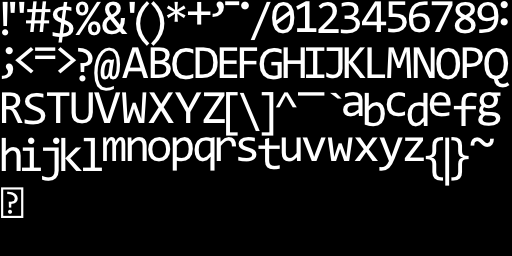
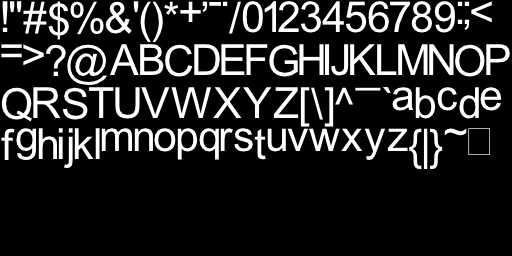
Added ability to specify font file and font size by calling mv_init manually

Changed region(s): [[0.0, 0.0, 1.0, 0.7188], [0.0, 0.7188, 0.0625, 0.875], [0.7188, 0.6562, 0.75, 0.6875]]

diff --git a/include/mv_easy_font.h b/include/mv_easy_font.h
@@ -19,6 +19,8 @@ GLuint mv_ef_load_shaders(const char *vs_path, const char *fs_path);
 typedef struct {
     int initialized; // to be able to initialize from the first call to mv_ef_draw()
 
+    char filename[256];
+
     // character info
     // filled up by stb_truetype.h
     stbtt_packedchar cdata[96]; 
@@ -52,7 +54,7 @@ typedef struct {
     GLuint vbo_instances; // vec4: (char_pos_x, char_pos_y, char_index, color_index)
 } mv_ef_font;
 
-void mv_ef_init();
+void mv_ef_init(char *filename, int font_size);
 void mv_ef_draw(char *str, char *col, float offset[2], float size, float res[2]);
 void mv_ef_string_dimensions(char *str, int *width, int *height, int font_size);
 void mv_ef_set_colors(float *colors);
@@ -177,9 +179,14 @@ void mv_ef_string_dimensions(char *str, int *width, int *height, int font_size)
 //
 // calculates and saves a bunch of useful variables and put them in the global font variable
 // 
-void mv_ef_init()
+void mv_ef_init(char *filename, int font_size)
 {
     font.initialized = 1;
+
+    if (filename)
+        strcpy(font.filename, filename);
+    else
+        strcpy(font.filename, "consola.ttf");
 
     // @TODO: Should probably hard code this eventually, as the shaders are finalized? 2 less files
     font.program = mv_ef_load_shaders( "vertex_shader_text.vs", "fragment_shader_text.fs" );
@@ -187,13 +194,13 @@ void mv_ef_init()
     // load .ttf into a bitmap using stb_truetype.h
     font.width = 512;
     font.height = 256;
-    font.font_size = 48.0;
+    font.font_size = font_size;
 
     // Read the data from file
     int ttf_size_max = 1e6;
     unsigned char *ttf_buffer = malloc(ttf_size_max); // sufficient size for consola.ttf
 
-    FILE *fp = fopen("consola.ttf", "rb");
+    FILE *fp = fopen(font.filename, "rb");
     fread(ttf_buffer, 1, ttf_size_max, fp);
     fclose(fp);
     
@@ -214,7 +221,7 @@ void mv_ef_init()
     stbtt_fontinfo info;
     stbtt_InitFont(&info, ttf_buffer, stbtt_GetFontOffsetForIndex(ttf_buffer,0));
 
-    float s = stbtt_ScaleForPixelHeight(&info, 48.0);
+    float s = stbtt_ScaleForPixelHeight(&info, font.font_size);
     int a, d, l;
     stbtt_GetFontVMetrics(&info, &a, &d, &l);
     printf("ascent %f  descent %f  linegap %f  yadvance %f\n", a*s, d*s, l*s, s*(a-d+l));
@@ -342,7 +349,7 @@ void mv_ef_draw(char *str, char *col, float offset[2], float size, float res[2])
     static float text_glyph_data[4*MAX_STRING_LEN] = {0};
 
     if (font.initialized == 0) {
-        mv_ef_init();
+        mv_ef_init(NULL, 48.0);
     }
 
     int len = strlen(str);
@@ -382,8 +389,7 @@ void mv_ef_draw(char *str, char *col, float offset[2], float size, float res[2])
 
 
     // Backup GL state
-    GLint last_program; 
-    GLint last_vertex_array; 
+    GLint last_program, last_vertex_array; 
     GLint last_texture0, last_texture1; 
     GLint last_blend_src, last_blend_dst; 
     GLint last_blend_equation_rgb, last_blend_equation_alpha; 
@@ -398,10 +404,10 @@ void mv_ef_draw(char *str, char *col, float offset[2], float size, float res[2])
 
     glGetIntegerv(GL_BLEND_SRC, &last_blend_src);
     glGetIntegerv(GL_BLEND_DST, &last_blend_dst);
-    glGetIntegerv(GL_BLEND_EQUATION_RGB, &last_blend_equation_rgb);
+    glGetIntegerv(GL_BLEND_EQUATION_RGB,   &last_blend_equation_rgb);
     glGetIntegerv(GL_BLEND_EQUATION_ALPHA, &last_blend_equation_alpha);
 
-    GLboolean last_enable_blend = glIsEnabled(GL_BLEND);
+    GLboolean last_enable_blend      = glIsEnabled(GL_BLEND);
     GLboolean last_enable_depth_test = glIsEnabled(GL_DEPTH_TEST);
 
     // Setup render state: alpha-blending enabled, no depth testing and bind textures

diff --git a/main.c b/main.c
@@ -265,6 +265,8 @@ int main()
 {
     init_GL();
 
+    mv_ef_init("arial.ttf", 48.0);
+
     char *fragment_source = mv_ef_read_entire_file("vertex_shader_text.vs");
     char *col = (char*)calloc(strlen(fragment_source), 1);
     color_string(fragment_source, col); // syntax highlighting
@@ -310,7 +312,7 @@ int main()
         if (SKIP_DRAWING == 0) {       
             float res[2] = {(float)resx, (float)resy};
             float offset[2] = {0.0, 0.0};
-            float font_size = 18.0;
+            float font_size = 32.0;
 
             int width, height;
             mv_ef_string_dimensions(fragment_source, &width, &height, font_size); // for potential alignment
